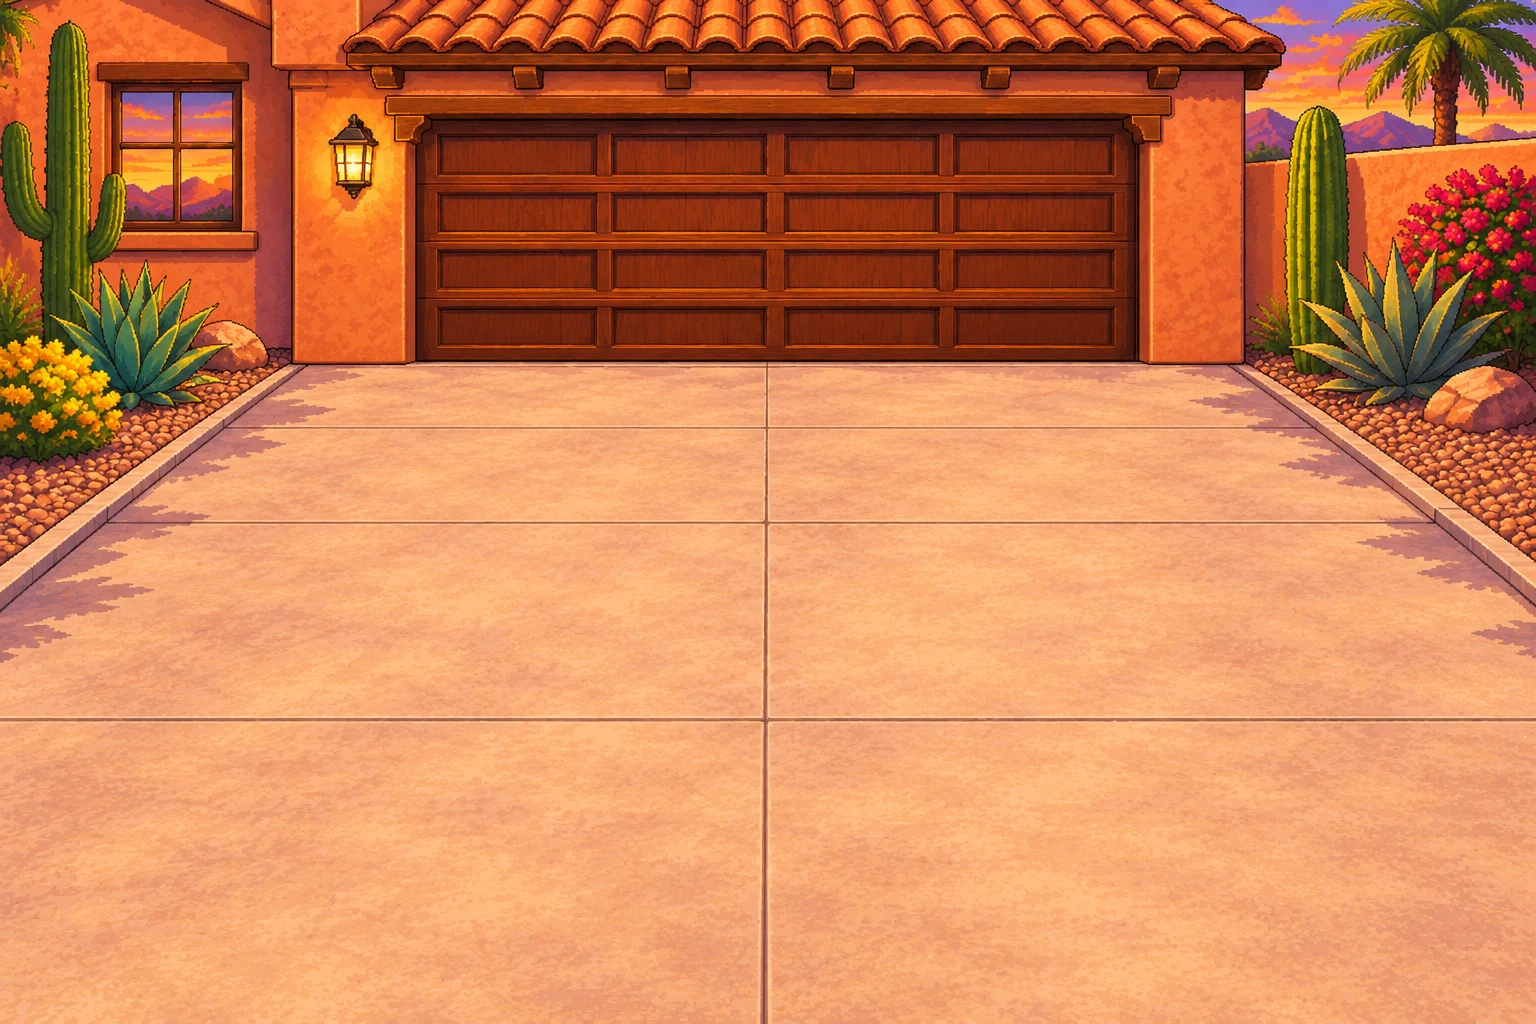
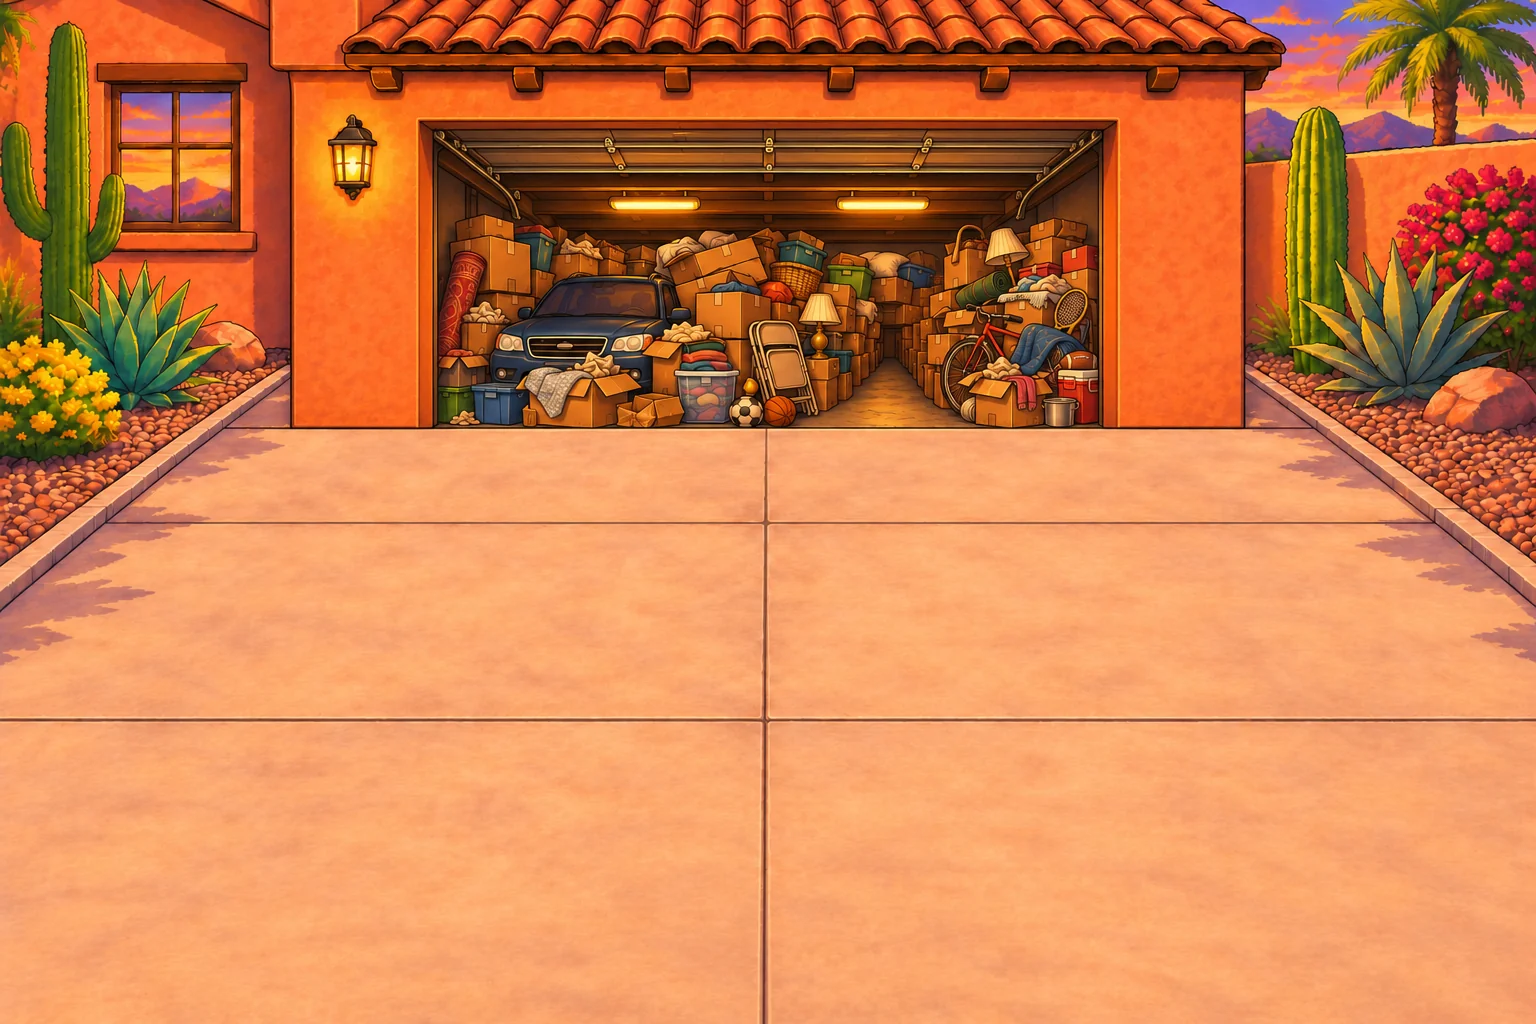
Driveway Dribbling: owner's open-garage background; objects enter at the garage threshold

diff --git a/src/render/art/drivewayArt.ts b/src/render/art/drivewayArt.ts
@@ -12,8 +12,8 @@ const pick = <T>(m: Record<string, T>, name: string): T | undefined => Object.en
 
 export const DD_BG_KEY = 'dd:background';
 export const DD_OBJ_KEY = 'dd:objects';
-/** Background art 1536x1024 (3:2); the playable concrete spans this share of the image (measured on the owner art). */
-export const DD_BG = { width: 1536, height: 1024, lane: { left: 0.27, right: 0.73, top: 0.18, bottom: 1 } } as const;
+/** Background art 1536x1024 (3:2). `garageBase`: the open garage's threshold, where the concrete starts, as a share of the art height (row 429, measured on the owner art). */
+export const DD_BG = { width: 1536, height: 1024, garageBase: 429 / 1024 } as const;
 /** Displayed object height = collision diameter x this (art includes a soft shadow and some height above the footprint). */
 export const DD_ART_HEIGHT: Readonly<Record<ObjKind, number>> = {
   cone: 2.6, bucket: 2.2, wateringCan: 2.1, can: 1.9, basketball: 2.1, skateboard: 1.6, scooter: 2.6, tricycle: 2.4, box: 2.4, boxStack: 2.9, target: 2.6,

diff --git a/src/scenes/DrivewayScene.ts b/src/scenes/DrivewayScene.ts
@@ -27,7 +27,7 @@ const BREAK_FRAME_SECONDS = 0.12;
 /** Drawn object width relative to its collision diameter (art has a little transparent margin and a soft shadow). */
 const ART_WIDTH = 1.25;
 /** Far end of the driveway (garage base) as a fraction of the background art height, measured on the owner art. */
-const GARAGE_BASE = DD_BG.lane.top + 0.176;
+const GARAGE_BASE = DD_BG.garageBase;
 const FAR_D = 1 / (1 + DRIVEWAY.spawnY / 20);
 
 /**

diff --git a/docs/training/DRIVEWAY.md b/docs/training/DRIVEWAY.md
@@ -44,7 +44,8 @@ Waves are seeded; every row is checked at build time for a reachable gap given s
 
 | Source (unchanged, `src/assets/art/driveway-v1/source/`) | SHA-256 prefix | Runtime |
 |---|---|---|
-| `driveway-background.png` 1536×1024 | `fc01272c541d3e30` | `driveway-background.webp` |
+| `driveway-background-v2.png` 1536×1024, open cluttered garage (owner, replaces v1) | `8a3801b018e89530` | `driveway-background.webp` (garage threshold at row 429: objects enter there) |
+| `driveway-background.png` 1536×1024, closed garage door (v1, kept for rollback) | `fc01272c541d3e30` | not shipped |
 | `breakables-sheet.png` 4×3 (box, box stack, target; intact/cracked/breaking/debris) | `e4098f485add31d0` | `driveway-objects.webp` frames `box-0..3`, `boxStack-0..3`, `target-0..3` |
 | `solids-sheet-a.png` 4×4 (cone, watering can, bucket, scooter) | `0992a0343c985504` | `cone-*`, `wateringCan-*`, `bucket-*`, `scooter-*` |
 | `solids-sheet-b.png` 4×4 (crushed can, basketball, tricycle, skateboard) | `0e22e832106ed9cc` | `can-*`, `basketball-*`, `tricycle-*`, `skateboard-*` |
